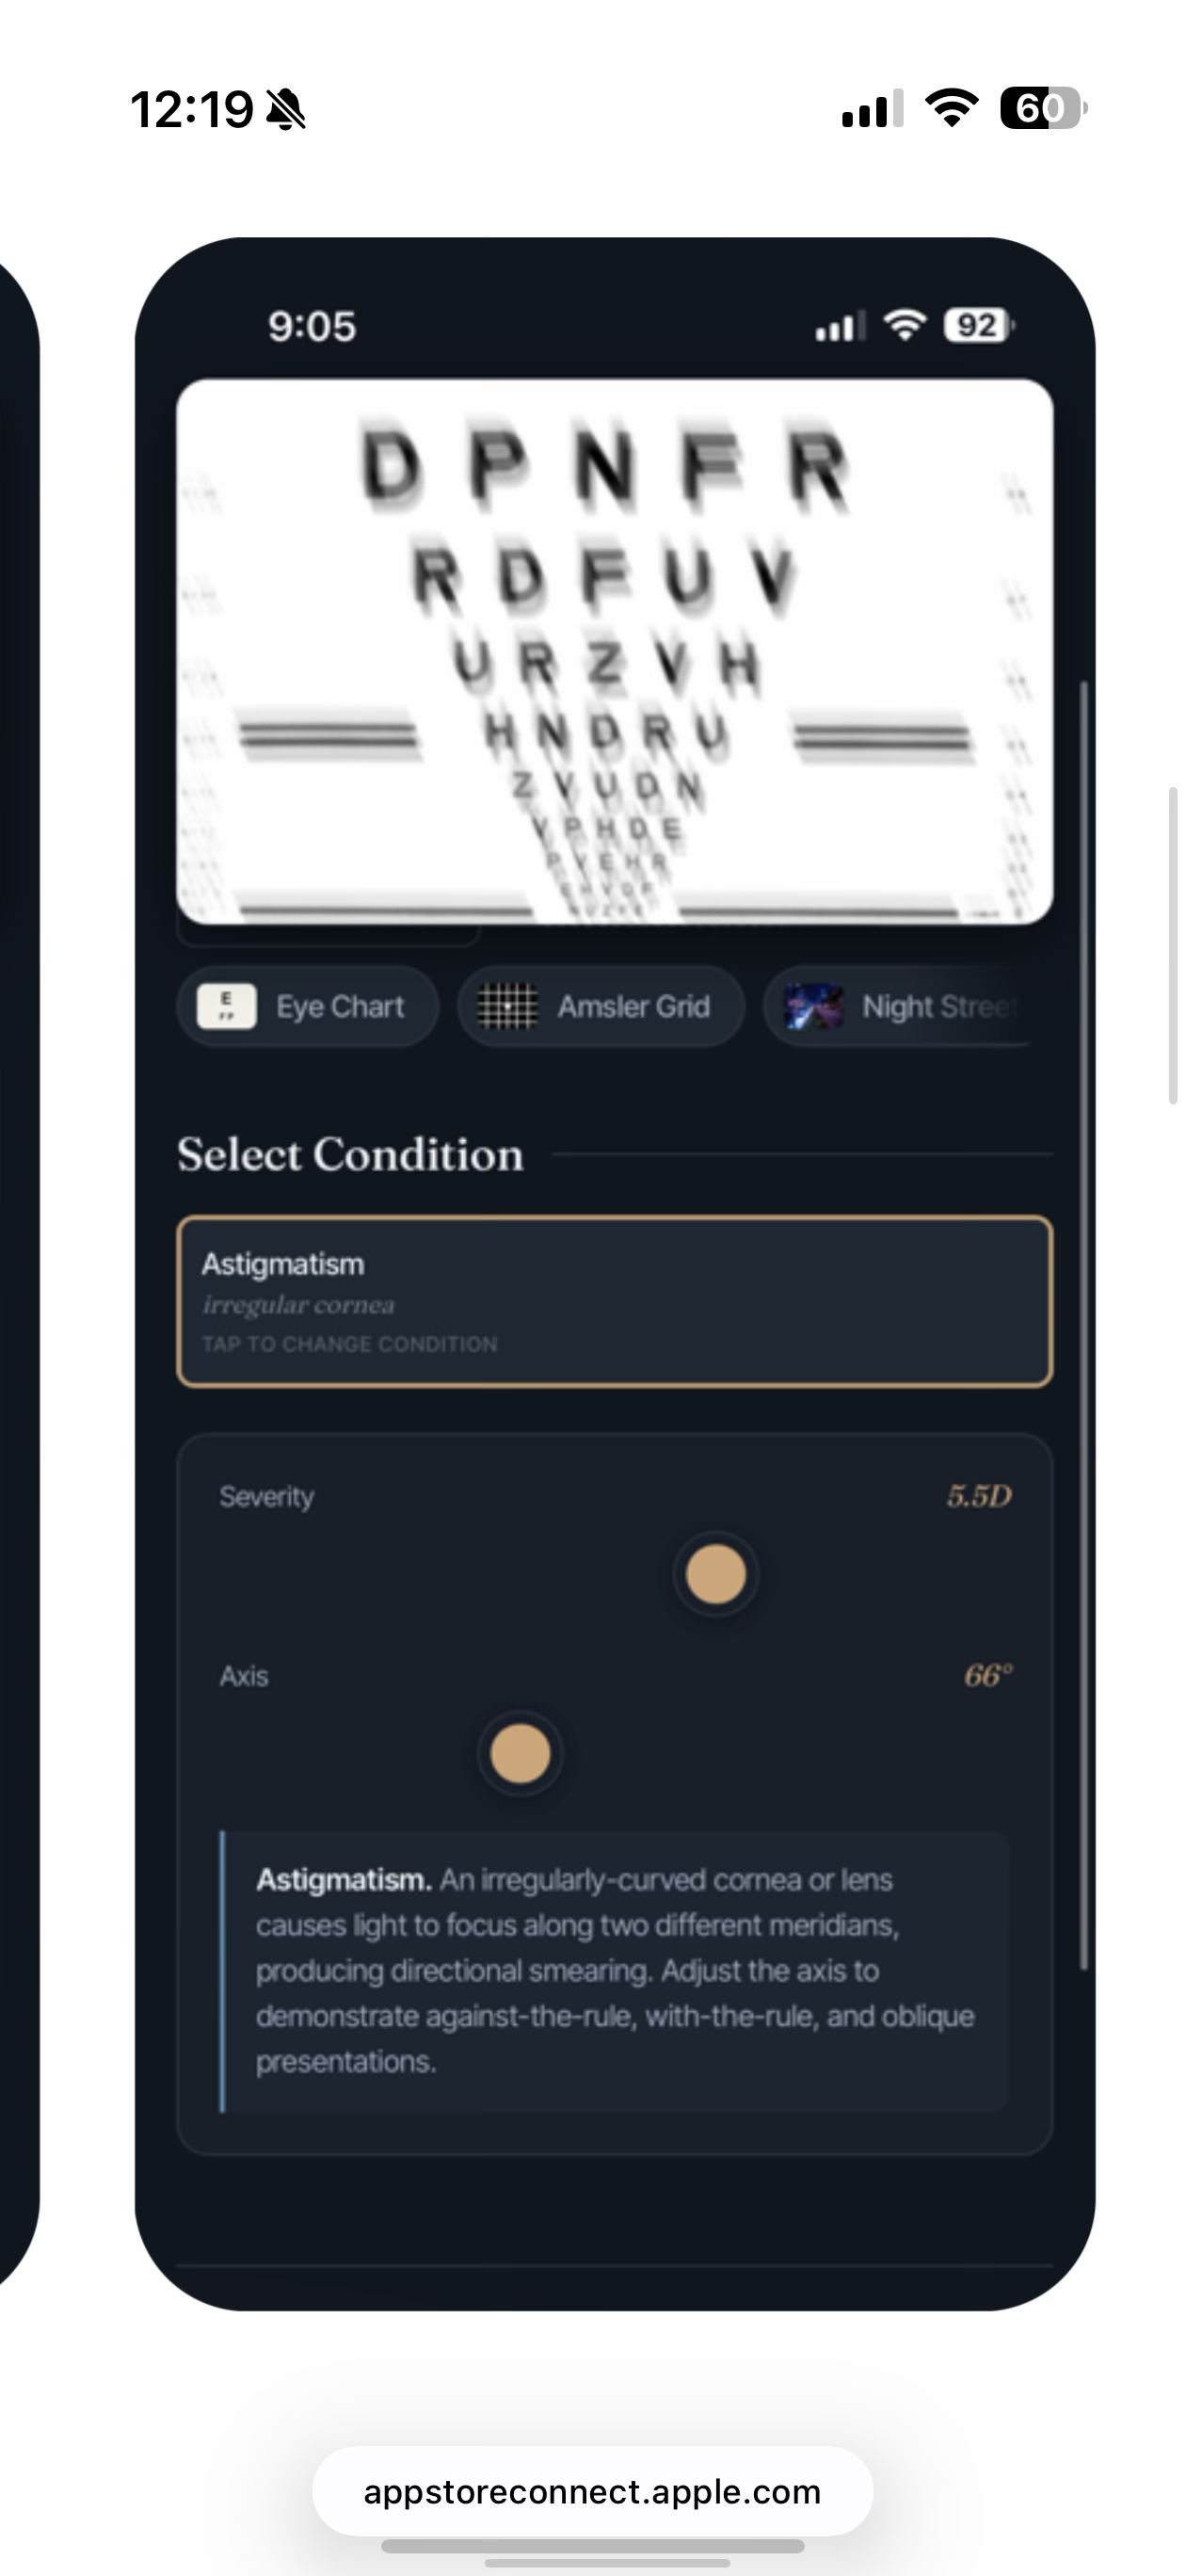
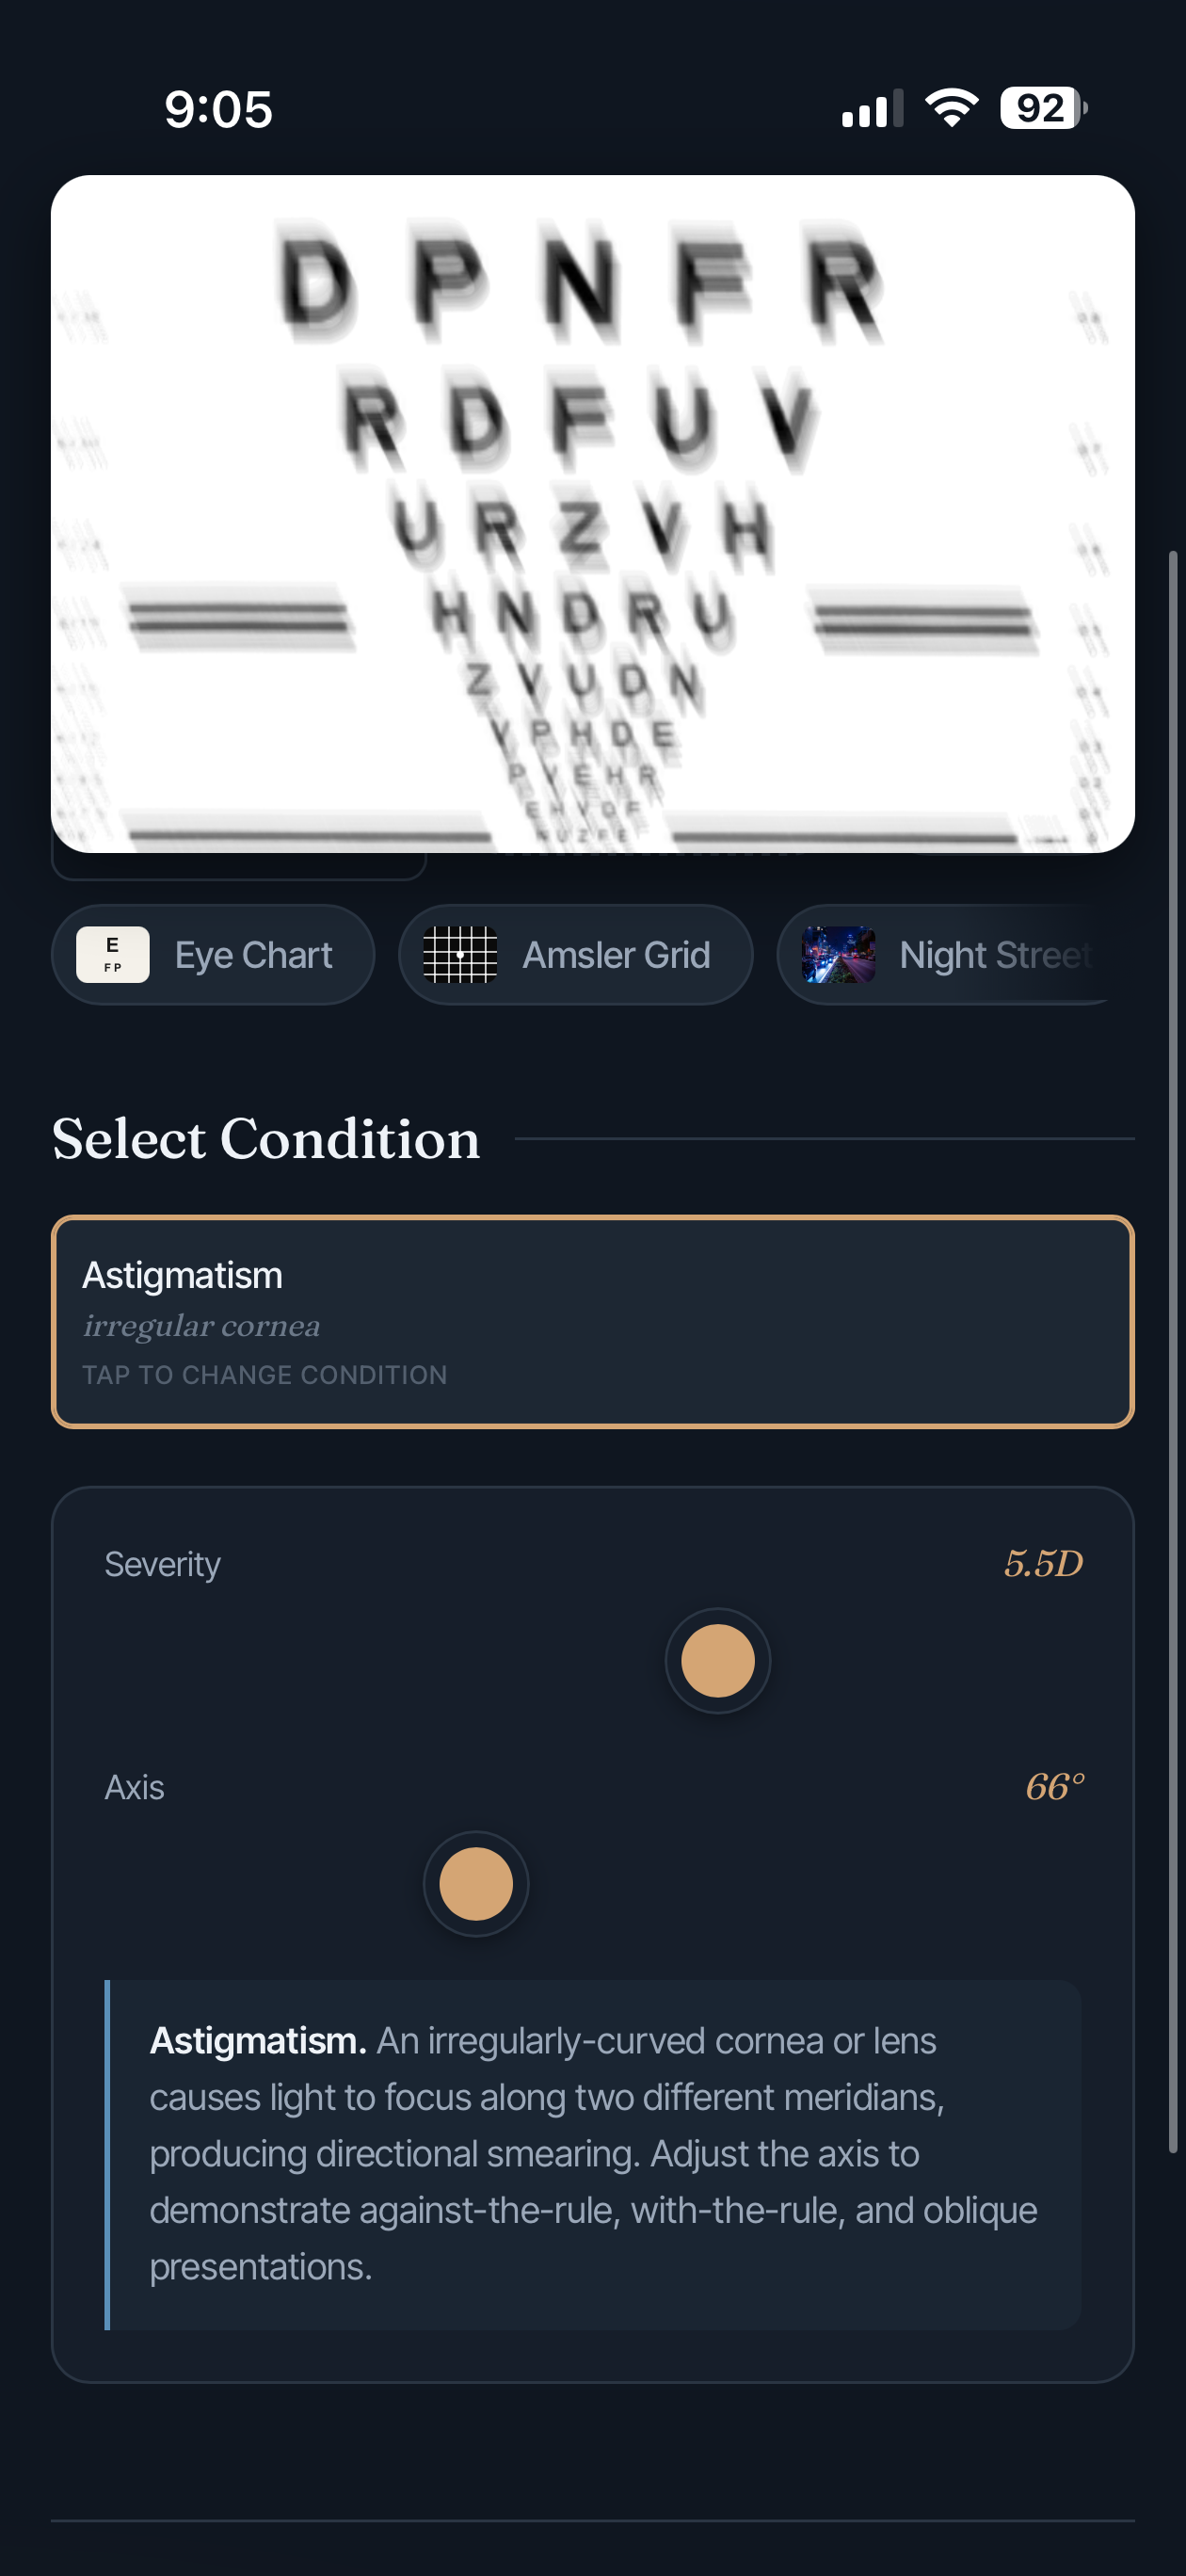
Replace all screens with final clean set — 5 unique conditions
Complete fresh set, no white borders:
  s1: Color Blindness compare (flower garden, Tritan)
  s2: Myopia compare (skatepark, 20/100)
  s3: AMD (person, Advanced + metamorphopsia)
  s4: Astigmatism (eye chart, 5.5D / 66 axis)
  s5: Main screen (all 11 conditions grid)

Remove stale s4-main.png and s5-main2.png from previous attempt.

Claude-Session: https://claude.ai/code/session_01JxDKQvTGgQNdZho7FUA4zi

diff --git a/vision-simulator/iphone-screenshots.html b/vision-simulator/iphone-screenshots.html
@@ -85,32 +85,32 @@ const SCREENS = [
     bar: 'AMD  ·  Central Vision Loss  ·  4 Disease Stages',
   },
   {
-    img: 'screens/s4-main.png',
-    label: 'Screen 4 — 11 Conditions',
-    file: 'visionsim-4-conditions.png',
-    eyebrow: '11 CLINICALLY-INFORMED CONDITIONS',
-    headline: '11 Conditions. One App.',
-    sub: 'Every condition your patients ask about — in one place, on demand',
+    img: 'screens/s4-astigmatism.png',
+    label: 'Screen 4 — Astigmatism',
+    file: 'visionsim-4-astigmatism.png',
+    eyebrow: 'EVERY CONDITION · EVERY STAGE',
+    headline: 'Every Condition. Every Stage.',
+    sub: 'Astigmatism · Glaucoma · AMD · Cataracts · RP · Color Blindness · and More',
     bullets: [
-      '· Myopia · Astigmatism · Cataract · Glaucoma · AMD · Diabetic Retinopathy',
-      '· Color Blindness · Floaters · RP · Presbyopia · Normal Vision baseline',
-      '· Start camera or upload any image — results are instant',
+      '· Severity and axis controls for directional smear',
+      '· 11 conditions with stage sliders from early to end-stage',
+      '· Eye chart, Amsler grid, and real-world scene modes',
     ],
-    bar: 'Vision Impairment Simulator  ·  Dr. Ryan Evans, OD',
+    bar: '11 Clinically-Informed Conditions  ·  Dr. Ryan Evans, OD',
   },
   {
-    img: 'screens/s5-main2.png',
-    label: 'Screen 5 — Built by an OD',
-    file: 'visionsim-5-built-by-od.png',
-    eyebrow: 'BUILT BY A LICENSED OPTOMETRIST',
-    headline: 'Real Education. Real Results.',
+    img: 'screens/s5-main.png',
+    label: 'Screen 5 — Main',
+    file: 'visionsim-5-main.png',
+    eyebrow: 'VISION IMPAIRMENT SIMULATOR',
+    headline: '11 Conditions. One App.',
     sub: 'Built by Dr. Ryan Evans, OD — for patient education that actually works',
     bullets: [
+      '· Start camera or upload any image — results are instant',
       '· Clinician-written descriptions for every condition',
-      '· Evidence-based simulations, not artistic guesses',
-      '· Share directly with patients, families, and colleagues',
+      '· Share simulations with patients, families, and colleagues',
     ],
-    bar: 'Dr. Ryan Evans, OD  ·  rjlcevans.com',
+    bar: 'Built by Dr. Ryan Evans, OD  ·  rjlcevans.com',
   },
 ];
 